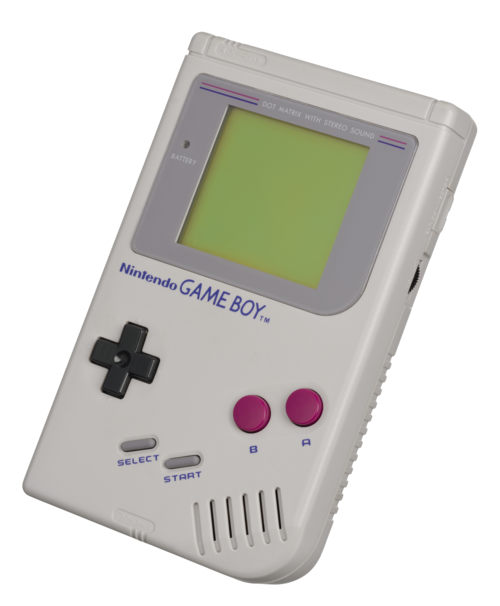
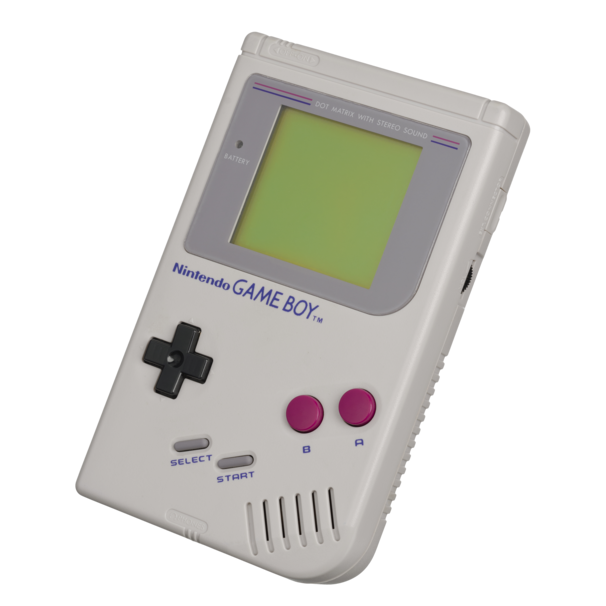
Updated home images and updated home css

diff --git a/index.html b/index.html
@@ -36,75 +36,80 @@
                     <h3 class="console_card_title">Sony PlayStation 2</h3>
                     <p class="console_card_units_sold">Units Sold: 160 million</p>
                     <p class="console_card_released">Released: 2000, Mar 4</p>
-                    <!-- <img class="console_card_image" src="images/ps2_black.jpg" alt="play station 2 image"> -->
+                    <img class="console_card_image" src="images/ps2_black.png" alt="play station 2 image">
+                    <div class="console_card_background"></div>
                 </section>
 
                 <section id="console_card_nintendo_ds" class="console_card">
                     <h3 class="console_card_title">Nintendo DS</h3>
                     <p class="console_card_units_sold">Units Sold: 154 million</p>
                     <p class="console_card_released">Released: 2004, Nov 21 - US/CA</p>
-                    <!-- <img class="console_card_image" src="images/nintendo_ds_lite_black.jpg" alt="nintendo ds lite image"> -->
+                    <img class="console_card_image" src="images/nintendo_ds_lite_black.png" alt="nintendo ds lite image">
+                    <div class="console_card_background"></div>
                 </section>
 
                 <section id="console_card_nintendo_switch" class="console_card">
                     <h3 class="console_card_title">Nintendo Switch</h3>
                     <p class="console_card_units_sold">Units Sold: 154 million</p>
                     <p class="console_card_released">Released: 2017, Mar 3</p>
-                    <!-- <img class="console_card_image" src="images/nintendo_switch.jpg" alt="nintendo switch image"> -->
+                    <img class="console_card_image" src="images/nintendo_switch.png" alt="nintendo switch image">
+                    <div class="console_card_background"></div>
                 </section>
 
                 <section id="console_card_game_boy" class="console_card">
                     <h3 class="console_card_title">Nintendo GameBoy</h3>
                     <p class="console_card_units_sold">Units Sold: 119 million</p>
                     <p class="console_card_released">Released: 1989, Jul 31 - US/CA</p>
-                    <!-- <img class="console_card_image" src="images/nintendo_game_boy.png" alt="nintendo game boy image"> -->
+                    <img class="console_card_image" src="images/nintendo_game_boy.png" alt="nintendo game boy image">
+                    <div class="console_card_background"></div>
                 </section>
 
                 <section id="console_card_ps4" class="console_card">
                     <h3 class="console_card_title">Sony PlayStation 4</h3>
                     <p class="console_card_units_sold">Units Sold: 117 million</p>
                     <p class="console_card_released">Released: 2013, Nov 15 - US/CA</p>
-                    <!-- <img class="console_card_image" src="images/ps4_black.jpg" alt="play station 4 image"> -->
+                    <img class="console_card_image" src="images/ps4_black.png" alt="play station 4 image">
+                    <div class="console_card_background"></div>
                 </section>
 
                 <section id="console_card_ps1" class="console_card">
                     <h3 class="console_card_title">Sony PlayStation (1)</h3>
                     <p class="console_card_units_sold">Units Sold: 103 million</p>
                     <p class="console_card_released">Released: 1994, Dec 3</p>
-                    <!-- Info Source: https://en.wikipedia.org/wiki/PlayStation_(console) -->
-                    <!-- <img class="console_card_image" src="images/ps_scph_1000.png" alt="play station 1 image"> -->
+                    <img class="console_card_image" src="images/ps_scph_1000.png" alt="play station 1 image">
+                    <div class="console_card_background"></div>
                 </section>
 
                 <section id="console_console_wii" class="console_card">
                     <h3 class="console_card_title">Nintendo Wii</h3>
                     <p class="console_card_units_sold">Units Sold: 102 million</p>
                     <p class="console_card_released">Released: 2006, Nov 19</p>
-                    <!-- Info Source: https://en.wikipedia.org/wiki/Wii -->
-                    <!-- <img class="console_card_image" src="images/nintendo_wii.png" alt="nintendo wii image"> -->
+                    <img class="console_card_image" src="images/nintendo_wii.png" alt="nintendo wii image">
+                    <div class="console_card_background"></div>
                 </section>
 
                 <section id="console_console_ps3" class="console_card">
                     <h3 class="console_card_title">Sony PlayStation 3</h3>
                     <p class="console_card_units_sold">Units Sold: 87 million</p>
                     <p class="console_card_released">Released: 2006, Nov 17 - US/CA</p>
-                    <!-- Info Source: https://en.wikipedia.org/wiki/PlayStation_3 -->
-                    <!-- <img class="console_card_image" src="images/ps3.png" alt="play station 3 image"> -->
+                    <img class="console_card_image" src="images/ps3_black.png" alt="play station 3 image">
+                    <div class="console_card_background"></div>
                 </section>
 
                 <section id="console_console_ps5" class="console_card">
                     <h3 class="console_card_title">Sony PlayStation 5</h3>
                     <p class="console_card_units_sold">Units Sold: 84 million</p>
                     <p class="console_card_released">Released: 2020, Nov 12</p>
-                    <!-- Info Source: https://en.wikipedia.org/wiki/PlayStation_5 -->
-                    <!-- <img class="console_card_image" src="images/ps5.png" alt="play station 5 image"> -->
+                    <img class="console_card_image" src="images/ps5_white.png" alt="play station 5 image">
+                    <div class="console_card_background"></div>
                 </section>
 
                 <section id="console_console_xbox_360" class="console_card">
                     <h3 class="console_card_title">Microsoft Xbox 360</h3>
                     <p class="console_card_units_sold">Units Sold: 84 million</p>
                     <p class="console_card_released">Released: 2005, Nov 2</p>
-                    <!-- Info Source: https://en.wikipedia.org/wiki/Xbox_360 -->
-                    <!-- <img class="console_card_image" src="images/xbox_360.jpg" alt="xbox 360 image"> -->
+                    <img class="console_card_image" src="images/xbox_360_black.png" alt="xbox 360 image">
+                    <div class="console_card_background"></div>
                 </section>
 
             </main>

diff --git a/styles/home.css b/styles/home.css
@@ -1,0 +1,46 @@
+.console_card {
+    max-height: 100px;
+    width: 100%;
+    display: grid;
+    grid-template-columns: 0.75fr 1fr 1fr 0.75fr;
+    grid-template-rows: 1fr 4fr 1fr 4fr 1fr;
+}
+
+.console_card_title, .console_card_units_sold, .console_card_released {
+    grid-column: 3/4;
+    justify-self: left;
+    margin: 0;
+    padding: 0;
+    width: max-content;
+    height: max-content;
+}
+
+.console_card_title {
+    grid-row: 2/3;
+    align-self: flex-end;
+}
+
+.console_card_units_sold {
+    grid-row: 3/4;
+    align-self: flex-end;
+}
+
+.console_card_released {
+    grid-row: 4/5;
+    align-self: flex-start;
+}
+
+.console_card_image {
+    grid-column: 2/3;
+    grid-row: 2/5;
+    justify-self: center;
+    align-self: center;
+    height: 75%;
+}
+
+.console_card_background {
+    grid-column: 2/4;
+    grid-row: 2/5;
+    z-index: -1;
+    border: 1px solid #64E8FF;
+}
